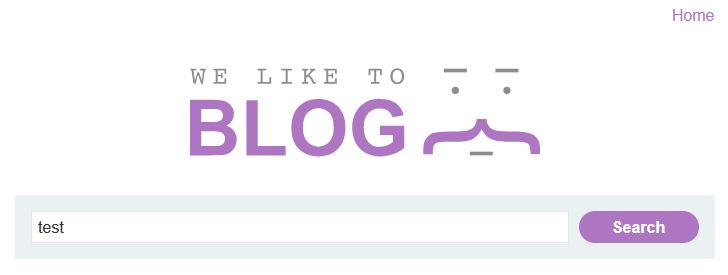
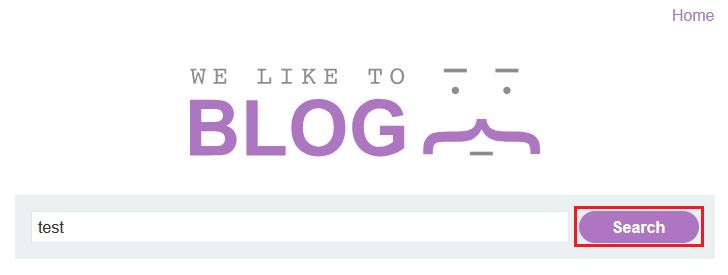
Update XSS

Changed region(s): [[0.7857, 0.7273, 0.967, 0.9018]]

diff --git a/XSS/PRACTITIONER/README.md b/XSS/PRACTITIONER/README.md
@@ -95,3 +95,108 @@ function (){
    alert(1);
 }
 ```
+
+## Reflected DOM XSS
+- Celah keamanan XSS berada di fitur pencarian (Search)
+
+![alt text](https://github.com/rahardian-dwi-saputra/portswigger-labs/blob/main/XSS/PRACTITIONER/assets/xss%2019.JPG)
+
+- Jalankan tool Burp Suite dengan Intercept off
+
+![alt text](https://github.com/rahardian-dwi-saputra/portswigger-labs/blob/main/XSS/PRACTITIONER/assets/xss%2020.JPG)
+
+- Ketik 'test' pada field pencarian lalu tekan tombol **Search**
+
+![alt text](https://github.com/rahardian-dwi-saputra/portswigger-labs/blob/main/XSS/PRACTITIONER/assets/xss%2021.JPG)
+
+![alt text](https://github.com/rahardian-dwi-saputra/portswigger-labs/blob/main/XSS/PRACTITIONER/assets/xss%2022.JPG)
+
+- Pada Burp Suite terdapat request yang mengarah ke path `/search-results`. Klik kanan request tersebut dan pilih **Send to Repeater**
+
+![alt text](https://github.com/rahardian-dwi-saputra/portswigger-labs/blob/main/XSS/PRACTITIONER/assets/xss%2023.JPG)
+
+![alt text](https://github.com/rahardian-dwi-saputra/portswigger-labs/blob/main/XSS/PRACTITIONER/assets/xss%2024.jpg)
+
+- Buka halaman web, klik kanan halaman kemudian pilih **Lihat Kode Sumber Halaman**
+
+![alt text](https://github.com/rahardian-dwi-saputra/portswigger-labs/blob/main/XSS/PRACTITIONER/assets/xss%2025.jpg)
+
+- Terdapat lampiran source code `searchResults.js`
+
+![alt text](https://github.com/rahardian-dwi-saputra/portswigger-labs/blob/main/XSS/PRACTITIONER/assets/xss%2026.JPG)
+
+- Jika dibuka, disana terdapat fungsi `eval()`. Fungsi `eval()` ini akan mengeksekusi ekspresi javascript apapun yang tertulis di dalamnya termasuk fungsi `alert()`
+
+![alt text](https://github.com/rahardian-dwi-saputra/portswigger-labs/blob/main/XSS/PRACTITIONER/assets/xss%2027.JPG)
+
+- Kembali ke Burp Suite, pindah ke tab **Repeater**
+
+![alt text](https://github.com/rahardian-dwi-saputra/portswigger-labs/blob/main/XSS/PRACTITIONER/assets/xss%2028.JPG)
+
+- Ubah nilai parameter `search` menjadi seperti ini. Jika sudah tekan tombol **Send**
+```sh
+xss\"-alert(1)}//
+```
+
+![alt text](https://github.com/rahardian-dwi-saputra/portswigger-labs/blob/main/XSS/PRACTITIONER/assets/xss%2029.JPG)
+
+![alt text](https://github.com/rahardian-dwi-saputra/portswigger-labs/blob/main/XSS/PRACTITIONER/assets/xss%2030.JPG)
+
+- Tanda `\"` digunakan untuk menambahkan tanda kutip 2 pada string `xss` sehingga fungsi `alert()` berada di luar string. Tanda `}` digunakan untuk menutup hasil encode JSON. Kemudian tanda `//` digunakan untuk mengomentari tanda `"}` yang tersisa dibagian akhir. Untuk lebih jelaskan bisa amati perubahan berikut ini
+
+![alt text](https://github.com/rahardian-dwi-saputra/portswigger-labs/blob/main/XSS/PRACTITIONER/assets/xss%2031.JPG)
+
+![alt text](https://github.com/rahardian-dwi-saputra/portswigger-labs/blob/main/XSS/PRACTITIONER/assets/xss%2032.JPG)
+
+![alt text](https://github.com/rahardian-dwi-saputra/portswigger-labs/blob/main/XSS/PRACTITIONER/assets/xss%2033.JPG)
+
+- Sekarang masukkan payload diatas pada field **Search**
+```sh
+xss\"-alert(1)}//
+```
+
+![alt text](https://github.com/rahardian-dwi-saputra/portswigger-labs/blob/main/XSS/PRACTITIONER/assets/xss%2034.JPG)
+
+![alt text](https://github.com/rahardian-dwi-saputra/portswigger-labs/blob/main/XSS/PRACTITIONER/assets/xss%2035.JPG)
+
+## Stored DOM XSS
+- Celah keamanan XSS berada di fitur komentar. Pilih salah satu postingan lalu tekan tombol **View post**
+
+![alt text](https://github.com/rahardian-dwi-saputra/portswigger-labs/blob/main/XSS/PRACTITIONER/assets/xss%2036.JPG)
+
+- Scroll kebawah untuk menemukan form untuk menulis komentar. Kemudian lakukan pengujian dengan menulis komentar seperti ini lalu klik tombol **Post Comment**
+
+![alt text](https://github.com/rahardian-dwi-saputra/portswigger-labs/blob/main/XSS/PRACTITIONER/assets/xss%2037.JPG)
+
+![alt text](https://github.com/rahardian-dwi-saputra/portswigger-labs/blob/main/XSS/PRACTITIONER/assets/xss%2038.JPG)
+
+- Hasil komentar akan tampak seperti ini. Terlihat bahwa karakter `<>` dihilangkan
+
+![alt text](https://github.com/rahardian-dwi-saputra/portswigger-labs/blob/main/XSS/PRACTITIONER/assets/xss%2039.JPG)
+
+- Klik kanan halaman kemudian pilih **Lihat Kode Sumber Halaman**
+
+![alt text](https://github.com/rahardian-dwi-saputra/portswigger-labs/blob/main/XSS/PRACTITIONER/assets/xss%2040.jpg)
+
+- Terdapat lampiran source code `loadCommentsWithVulnerableEscapeHtml.js`
+
+![alt text](https://github.com/rahardian-dwi-saputra/portswigger-labs/blob/main/XSS/PRACTITIONER/assets/xss%2041.JPG)
+
+- Di dalam source code `loadCommentsWithVulnerableEscapeHtml.js` terdapat fungsi `escapeHTML(html)`
+
+![alt text](https://github.com/rahardian-dwi-saputra/portswigger-labs/blob/main/XSS/PRACTITIONER/assets/xss%2042.JPG)
+
+- Untuk mengeksploitasi kerentanan XSS kita memasukkan payload berikut ini ke dalam komentar
+```sh
+<><img src=x onerror=alert(1)>
+```
+
+![alt text](https://github.com/rahardian-dwi-saputra/portswigger-labs/blob/main/XSS/PRACTITIONER/assets/xss%2043.JPG)
+
+![alt text](https://github.com/rahardian-dwi-saputra/portswigger-labs/blob/main/XSS/PRACTITIONER/assets/xss%2044.JPG)
+
+- Hasilnya adalah sebagai berikut
+
+![alt text](https://github.com/rahardian-dwi-saputra/portswigger-labs/blob/main/XSS/PRACTITIONER/assets/xss%2045.JPG)
+
+![alt text](https://github.com/rahardian-dwi-saputra/portswigger-labs/blob/main/XSS/PRACTITIONER/assets/xss%2046.JPG)
